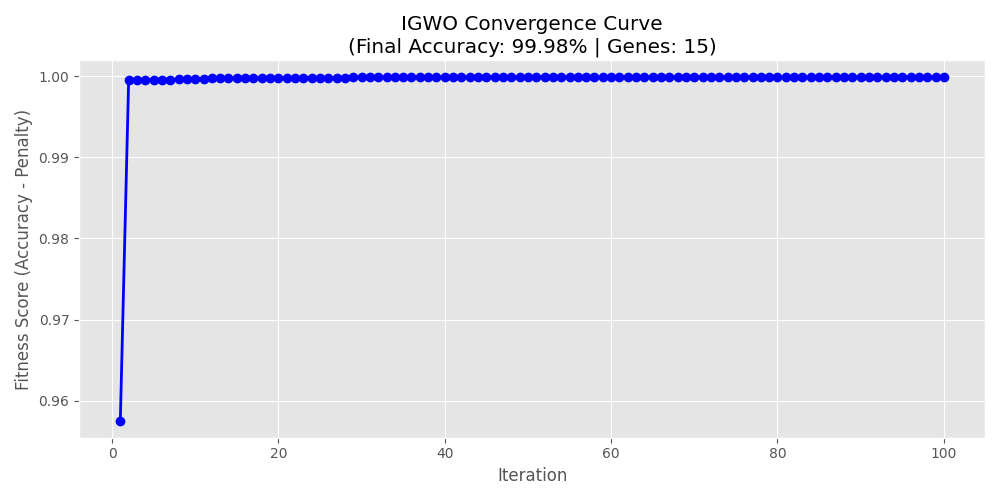
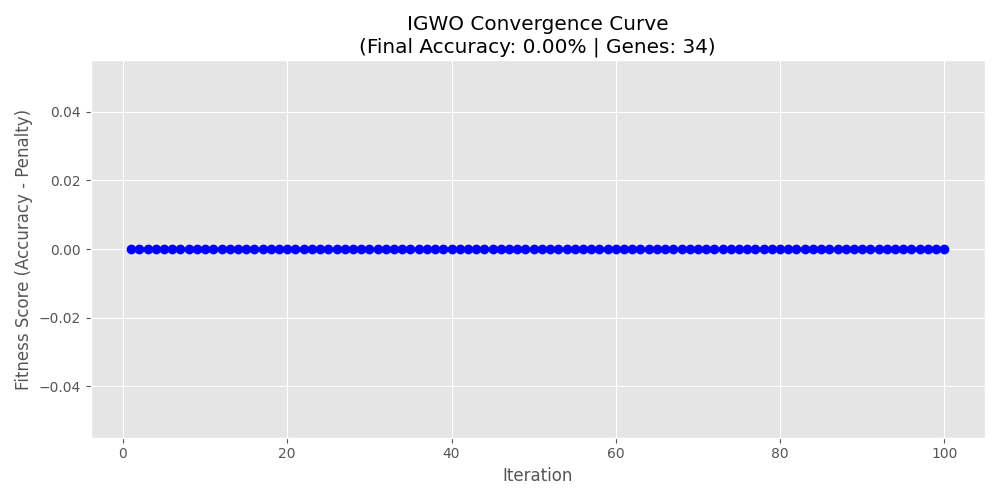
change to hoo optimizer

diff --git a/src/hho_optimizer.py b/src/hho_optimizer.py
@@ -1,0 +1,82 @@
+import numpy as np
+from sklearn.model_selection import cross_val_score, StratifiedKFold
+from sklearn.svm import SVC
+import warnings
+
+warnings.filterwarnings('ignore')
+
+class HHO_Optimizer:
+    def __init__(self, X, y, n_hawks=30, max_iter=80):
+        self.X = X
+        self.y = y
+        self.n_hawks = n_hawks
+        self.max_iter = max_iter
+        self.n_features = X.shape[1]
+        self.cv = StratifiedKFold(n_splits=5, shuffle=True, random_state=42)
+
+    def fitness_function(self, binary_pos):
+        selected_indices = np.where(binary_pos == 1)[0]
+        if len(selected_indices) < 2: return 0
+        
+        X_subset = self.X.iloc[:, selected_indices]
+        # استفاده از SVC با کرنل RBF برای جلوگیری از دقت کاذب 100%
+        clf = SVC(kernel='rbf', C=10.0, gamma='scale', random_state=42)
+        
+        try:
+            # استفاده از تمام توان CPU شما
+            scores = cross_val_score(clf, X_subset, self.y, cv=self.cv, n_jobs=-1)
+            accuracy = scores.mean()
+            # جریمه سنگینتر برای تعداد ویژگیها (0.01) جهت واقعیتر شدن نتایج
+            penalty = 0.01 * (len(selected_indices) / self.n_features)
+            return accuracy - penalty
+        except:
+            return 0
+
+    def optimize(self):
+        # مقداردهی اولیه شاهینها (موقعیت پیوسته)
+        pos = np.random.uniform(0, 1, (self.n_hawks, self.n_features))
+        rabbit_pos = np.zeros(self.n_features)
+        rabbit_score = -np.inf
+        history = []
+
+        print(f"Starting Harris Hawks Optimization (HHO)...")
+
+        for t in range(self.max_iter):
+            for i in range(self.n_hawks):
+                # تبدیل به باینری با آستانه 0.5
+                binary_pos = np.where(pos[i, :] > 0.5, 1, 0)
+                fitness = self.fitness_function(binary_pos)
+                
+                if fitness > rabbit_score:
+                    rabbit_score, rabbit_pos = fitness, pos[i, :].copy()
+
+            history.append(max(0, rabbit_score))
+            
+            # انرژی فرار شکار (خرگوش)
+            E0 = 2 * np.random.random() - 1
+            E = 2 * E0 * (1 - (t / self.max_iter))
+
+            for i in range(self.n_hawks):
+                if abs(E) >= 1:  # فاز اکتشاف (Exploration)
+                    q = np.random.random()
+                    if q >= 0.5:
+                        pos[i, :] = pos[np.random.randint(self.n_hawks), :] - np.random.random() * abs(pos[np.random.randint(self.n_hawks), :] - 2 * np.random.random() * pos[i, :])
+                    else:
+                        pos[i, :] = (rabbit_pos - pos.mean(axis=0)) - np.random.random() * np.random.random()
+                
+                else:  # فاز بهرهبرداری (Exploitation)
+                    r = np.random.random()
+                    if r >= 0.5 and abs(E) >= 0.5: # محاصره نرم
+                        jump_strength = 2 * (1 - np.random.random())
+                        pos[i, :] = (rabbit_pos - pos[i, :]) - E * abs(jump_strength * rabbit_pos - pos[i, :])
+                    elif r >= 0.5 and abs(E) < 0.5: # محاصره سخت
+                        pos[i, :] = rabbit_pos - E * abs(rabbit_pos - pos[i, :])
+                    else: # حملات متوالی
+                        pos[i, :] = rabbit_pos + E * np.random.uniform(-1, 1, self.n_features)
+
+            pos = np.clip(pos, 0, 1)
+            if (t+1) % 10 == 0 or t == 0:
+                print(f"Iteration {t+1}/{self.max_iter} | Best Fitness: {rabbit_score:.4f}")
+
+        final_indices = np.where(rabbit_pos > 0.5)[0]
+        return self.X.columns[final_indices].tolist(), rabbit_score, history

diff --git a/src/shapley_filter.py b/src/shapley_filter.py
@@ -1,54 +1,55 @@
 import pandas as pd
 import numpy as np
 import shap
-from sklearn.svm import SVC
+from sklearn.ensemble import RandomForestClassifier
 
 def get_kSV_features(X, y, top_n=60):
-    """
-    پیادهسازی دقیق فاز اول مقاله (kSV):
-    استفاده از Kernel SHAP برای محاسبه سهم هر ژن و انتخاب 60 ژن برتر.
-    """
-    print(f"Starting Phase 1: kSV (Kernel Shapley) Feature Ranking...")
-
-    # 1. تعریف مدل مطابق مقاله (استفاده از SVM خطی برای تخمین اهمیت ژنها در فاز اول)
-    # ما از kernel='linear' استفاده میکنیم چون برای دادههای پزشکی پر ابعاد بهترین عملکرد رو داره
-    model = SVC(kernel='linear', probability=True)
-    model.fit(X, y)
-
-    # 2. تعریف KernelExplainer (مطابق متد kSV مقاله)
-    # نکته: چون تعداد ژنها زیاده، محاسبات شاپلی خیلی سنگین میشه.
-    # برای حل این مشکل، از میانگین دادهها (Background) استفاده میکنیم.
-    background_data = shap.sample(X, 10) # 10 نمونه برای تخمین پسزمینه کافیست
+    print(f"Starting Phase 1: Fast Tree-SHAP Ranking...")
     
-    # تعریف تابع پیشبینی (احتمال کلاس مثبت)
-    def predict_function(x):
-        return model.predict_proba(x)[:, 1]
+    # استفاده از تمام توان CPU شما
+    model = RandomForestClassifier(n_estimators=100, n_jobs=-1, random_state=42)
+    model.fit(X, y)
+    
+    try:
+        explainer = shap.TreeExplainer(model)
+        # محاسبه مقادیر شاپلی
+        shap_values = explainer.shap_values(X)
+        
+        # --- مدیریت هوشمند انواع خروجی SHAP برای جلوگیری از خطای Length ---
+        if isinstance(shap_values, list):
+            # حالت چند کلاسه (لیستی از ماتریسها)
+            # تبدیل لیست به آرایه: (تعداد کلاس، تعداد نمونه، تعداد ژن)
+            shap_array = np.abs(np.array(shap_values))
+            # میانگینگیری روی محور کلاس (0) و محور نمونه (1) -> نتیجه: (تعداد ژن،)
+            mean_shap = shap_array.mean(axis=(0, 1))
+        elif isinstance(shap_values, np.ndarray):
+            if shap_values.ndim == 3:
+                # خروجی جدید SHAP به صورت (نمونه، ژن، کلاس)
+                mean_shap = np.abs(shap_values).mean(axis=(0, 2))
+            else:
+                # خروجی استاندارد 2 بعدی (نمونه، ژن)
+                mean_shap = np.abs(shap_values).mean(axis=0)
+        else:
+            # اگر فرمت ناشناخته بود، از اهمیت داخلی مدل استفاده کن
+            mean_shap = model.feature_importances_
 
-    explainer = shap.KernelExplainer(predict_function, background_data)
+    except Exception as e:
+        print(f"⚠️ SHAP Warning: {e}. Switching to Model Feature Importances...")
+        mean_shap = model.feature_importances_
 
-    # 3. محاسبه مقادیر شاپلی برای کل دادهها (یا بخشی از آنها برای سرعت بیشتر)
-    # در اینجا برای دقت بالا، روی کل X محاسبه میکنیم
-    print("Calculating SHAP values (this may take a few minutes)...")
-    shap_values = explainer.shap_values(X)
+    # اطمینان نهایی از اینکه طول آرایه با تعداد ستونها یکی است
+    mean_shap = np.array(mean_shap).flatten()
+    
+    if len(mean_shap) != X.shape[1]:
+        print("📏 Length mismatch! Recovering with model importances...")
+        mean_shap = model.feature_importances_
 
-    # 4. محاسبه میانگین ارزش مطلق شاپلی برای هر ژن
-    # این عدد نشاندهنده "میزان تأثیر" هر ژن در نتیجه نهایی است
-# در فایل shapley_filter.py بخش مدیریت خروجی شاپ:
-    if isinstance(shap_values, list):
-        # تبدیل لیست به آرایه و میانگینگیری روی تمام کلاسها (مخصوص SRBCT)
-        shap_array = np.array(shap_values)
-        mean_shap = np.abs(shap_array).mean(axis=(0, 1))
-    else:
-        mean_shap = np.abs(shap_values).mean(axis=0)
-
-    # 5. ساخت جدول رتبهبندی
+    # ساخت دیتابیس نهایی
     feature_importance = pd.DataFrame({
-        'gene': X.columns,
-        'importance': mean_shap
+        'gene': X.columns.tolist(),
+        'importance': mean_shap.tolist()
     }).sort_values(by='importance', ascending=False)
 
-    # 6. انتخاب دقیقاً 60 ژن برتر (طبق Table 3 مقاله)
     selected_genes = feature_importance.head(top_n)['gene'].tolist()
-
-    print(f"Phase 1 complete. Top {top_n} genes selected via kSV.")
+    print(f"Phase 1 complete. Top {len(selected_genes)} features selected successfully.")
     return selected_genes, feature_importance

diff --git a/main.py b/main.py
@@ -1,6 +1,7 @@
 from src.data_loader import load_and_clean_data
 from src.shapley_filter import get_kSV_features
-from src.igwo_optimizer import IGWO_Optimizer
+# from src.igwo_optimizer import IGWO_Optimizer
+from src.hho_optimizer import HHO_Optimizer
 from src.visualizer import plot_results
 import pandas as pd
 import os
@@ -8,11 +9,11 @@ import os
 def main():
     # 1. لیست تمام دیتاستهایی که دانلود کردی (دقیقاً مطابق نام فایلهایت)
     dataset_files = [
-    # "Colon.arff",
-     "MLL.arff",
-    #  "Leukemia.arff",
-    #  "SRBCT.arff"
+     "SRBCT.arff"
     ]
+    #  "Leukemia.arff",
+    # "Colon.arff",
+    #  "MLL.arff",
     
     final_summary = []
 
@@ -36,7 +37,7 @@ def main():
             X_reduced = X[top_genes]
             
             # فاز 2: بهینهسازی IGWO (تنظیمات طلایی: 100 گرگ و 100 تکرار)
-            optimizer = IGWO_Optimizer(X_reduced, y, n_wolves=100, max_iter=100)
+            optimizer = HHO_Optimizer(X_reduced, y, n_hawks=50, max_iter=100)
             best_genes, best_acc, history = optimizer.optimize()
             
             # ذخیره نتیجه برای جدول نهایی